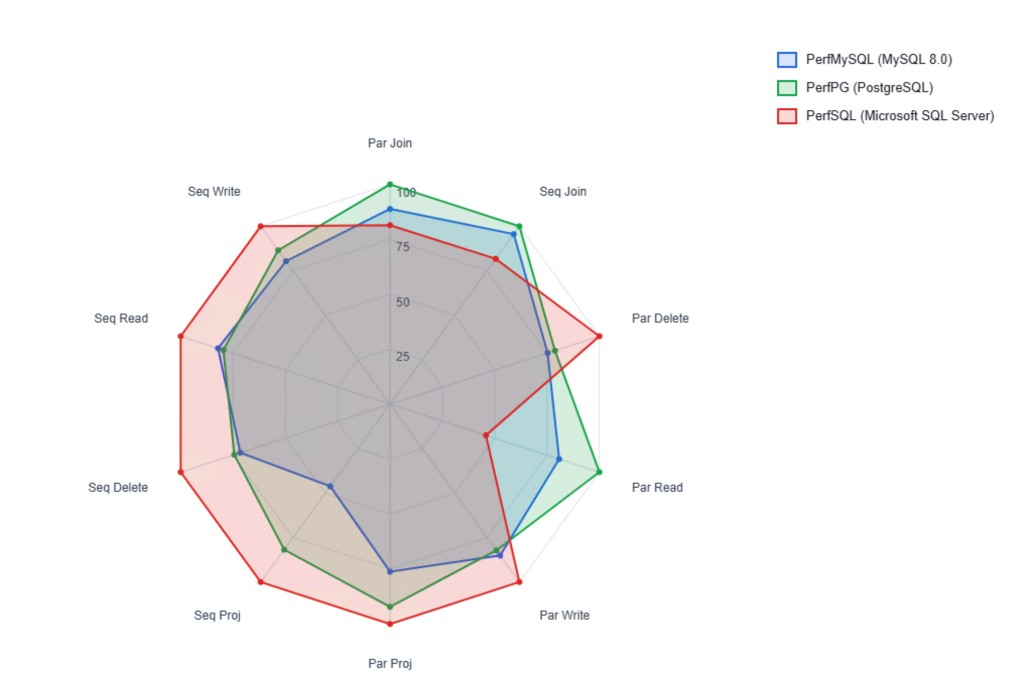
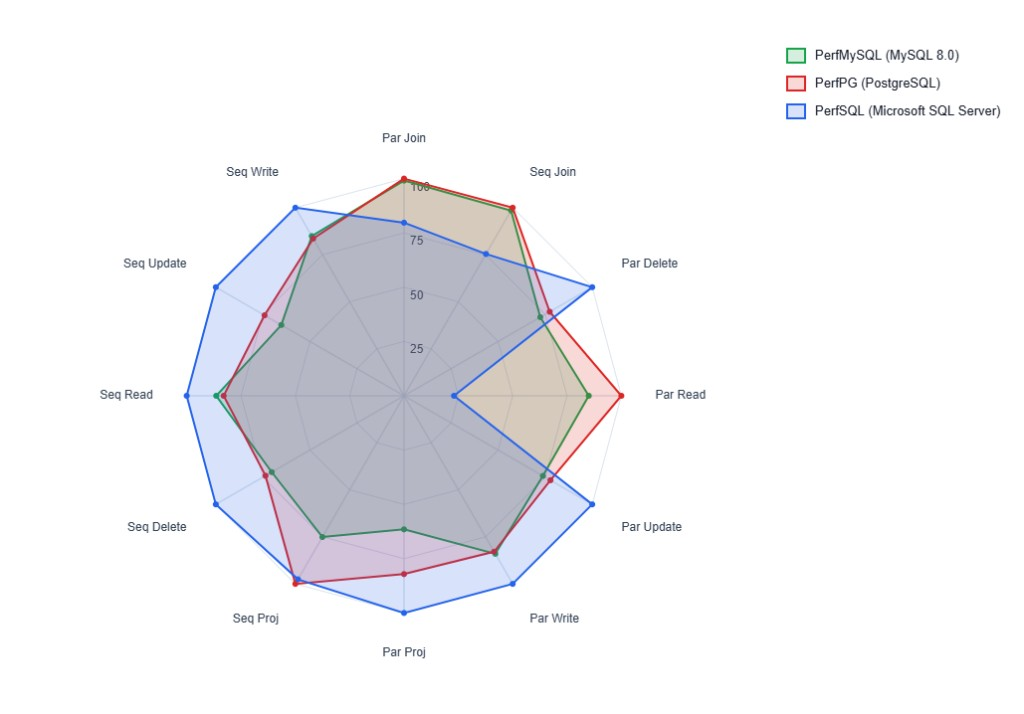
Update benchmark results with fresh test data and fix script bugs
- Replace screenshots with results from latest 12-benchmark run (including Update)

- Add benchmark matrix table with all results and per-benchmark winner

- Add spider chart interpretation guide with correct reading instructions

- Add Benchmark Types Explained table describing all 12 benchmarks

- Explain newly added Update benchmark code in FBQL Queries section

- Fix Wait-ForBenchmarkDataClear to accept Idle as valid cleared state

- Fix Get-RecordFieldValue strict-mode error on PSObject.Properties access

- Update spider chart note for clearer per-axis interpretation

Made-with: Cursor

diff --git a/README.md b/README.md
@@ -6,29 +6,49 @@ Created by AcuPower LTD for performance analysis. Company website: [acupowererp.
 
 ## Benchmark Results
 
+Test parameters: **15,000 records**, **5 iterations**, **batch size 250**, **12 parallel threads**.
+
 ### All Operations Overview
 
 ![All Operations](docs/images/benchmark-all-operations.png)
 
-The Y-axis shows elapsed time in milliseconds (ms) -- **lower is better**, meaning the database completed the workload faster. The scale values represent thousands of milliseconds: 25k = 25,000 ms (25 seconds), 50k = 50,000 ms (50 seconds), 75k = 75,000 ms (1 min 15 sec), 100k = 100,000 ms (1 min 40 sec). The chart covers all 10 benchmark categories for all three databases. The two prominent peaks correspond to Delete operations, which are consistently the most expensive across every engine. SQL Server (blue) tends to sit below MySQL and PostgreSQL on Delete-heavy workloads, while Read and Projection operations cluster tightly for all three engines.
+This line chart plots elapsed time in milliseconds for all 12 benchmark categories across the three database engines. The Y-axis shows time in milliseconds -- **lower is better**. The scale values represent thousands of milliseconds: 125k = 125,000 ms (2 min 5 sec), 250k = 250,000 ms (4 min 10 sec), 375k = 375,000 ms (6 min 15 sec), 500k = 500,000 ms (8 min 20 sec).
 
-### Read / Write / Delete
-
-![Read Write Delete](docs/images/benchmark-read-write-delete.png)
-
-A focused view of the six CRUD benchmarks (sequential and parallel Read, Write, Delete). Lower values mean faster execution. Read operations are nearly identical across engines. Write operations show moderate separation, with SQL Server completing slightly faster. Delete operations reveal the largest gap: MySQL and PostgreSQL reach ~85,000 ms (~1 min 25 sec) while SQL Server stays around ~58,000 ms (~58 seconds) for the same record count and iteration settings.
-
-### Analytical Workloads (Complex BQL Join and PXProjection)
-
-![Analytical Workloads](docs/images/benchmark-analytical-workloads.png)
-
-Zoomed into the analytical benchmark categories: Sequential Join, Sequential Projection, Parallel Join, and Parallel Projection. Lower values mean faster execution. The Y-axis scale here tops out at 20k (20,000 ms = 20 seconds), reflecting that analytical queries are substantially lighter than Delete workloads. SQL Server (blue) shows higher elapsed time on the Join benchmarks (~19,000 ms / ~19 sec), while PostgreSQL (red) is consistently the fastest on Projection queries. Sequential Projection times are very close across all three engines (~1,000-2,000 ms / 1-2 seconds), suggesting the database optimizer produces similar plans for the flattened projection view.
+The two prominent peaks correspond to **Delete** operations (both sequential and parallel), which are consistently the most expensive across every engine. SQL Server (blue) sits below MySQL and PostgreSQL on Delete-heavy workloads. Read and Projection operations cluster tightly near the baseline for all three engines, indicating minimal difference on lightweight queries.
 
 ### Spider Chart (Normalized Comparison)
 
 ![Spider Chart](docs/images/benchmark-spider-chart.png)
 
-A radar chart normalizing every benchmark category to a 0-100 scale so the overall performance "shape" of each database is visible at a glance. Here, **smaller is better** -- a larger footprint means more time consumed (worse performance). SQL Server (red) extends outward on Write and Delete axes, while PostgreSQL (green) and MySQL (blue) trade advantages depending on the operation type.
+A radar chart normalizing every benchmark category to a 0-100 **speed score**. Each axis shows a normalized speed score for one benchmark. **100 = fastest database for that benchmark**. Compare databases per axis: the further from the center, the faster.
+
+**How to read it:**
+- **Blue** = Microsoft SQL Server, **Red** = PostgreSQL, **Green** = MySQL 8.0
+- SQL Server (blue) reaches the outer edge on most CRUD axes (Read, Write, Update, Delete), confirming it is the fastest for transactional operations
+- SQL Server collapses toward the center on **Parallel Read** (score ~23), where PostgreSQL and MySQL are dramatically faster (~1.2s vs 5.35s)
+- PostgreSQL (red) and MySQL (green) reach 100 on **Complex BQL Join** axes, meaning they outperform SQL Server on multi-table analytical joins
+- On **PXProjection** axes, all three engines cluster near the outer edge, meaning projection performance is similar across all databases
+
+### Benchmark Matrix
+
+Full results from the latest benchmark run (15,000 records, 5 iterations, 12 threads):
+
+| Benchmark | MySQL 8.0 | PostgreSQL | SQL Server | Winner |
+|---|---|---|---|---|
+| Sequential Read | 11.29s | 11.75s | **9.76s** | SQL Server |
+| Sequential Write | 56.65s | 57.50s | **48.09s** | SQL Server |
+| Sequential Update | 1:28 (88s) | 1:17 (77s) | **57.77s** | SQL Server |
+| Sequential Delete | 5:47 (347s) | 5:31 (331s) | **4:04 (244s)** | SQL Server |
+| Complex BQL Join (Sequential) | 26.87s | **26.46s** | 35.08s | PostgreSQL |
+| PXProjection Analysis (Sequential) | 3.03s | **2.28s** | 2.33s | PostgreSQL |
+| Parallel Read | 1.45s | **1.23s** | 5.35s | PostgreSQL |
+| Parallel Write | 49.97s | 50.66s | **41.99s** | SQL Server |
+| Parallel Update | 49.75s | 47.20s | **36.71s** | SQL Server |
+| Parallel Delete | 5:15 (315s) | 4:55 (295s) | **3:48 (228s)** | SQL Server |
+| Complex BQL Join (Parallel) | 21.45s | **21.24s** | 26.65s | PostgreSQL |
+| PXProjection Analysis (Parallel) | 2.57s | 1.93s | **1.58s** | SQL Server |
+
+**Summary:** SQL Server wins 8 of 12 benchmarks (all CRUD operations plus Parallel PXProjection). PostgreSQL wins 4 (both Complex BQL Joins, Sequential PXProjection, and Parallel Read). MySQL 8.0 tracks PostgreSQL closely on every benchmark but does not take first place in any category.
 
 ## What It Includes
 
@@ -60,11 +80,10 @@ All benchmarks use Acumatica Fluent BQL (FBQL) through `SelectFrom<>` syntax. Th
 | `INSite` | Left-joined via `SiteID` to retrieve warehouse code. |
 | `Branch` (GL) | Left-joined via `BranchID` to retrieve the branch associated with each warehouse. |
 
-### Read / Write / Delete Queries
+### Read Queries
 
-These benchmarks operate on the `PerfTestRecord` table using parameterized FBQL:
+Selects records by `BatchID` and `Sequence` range, ordered ascending:
 
-**Read** -- selects records by `BatchID` and `Sequence` range, ordered ascending:
 ```csharp
 SelectFrom<PerfTestRecord>
     .Where<PerfTestRecord.batchID.IsEqual<@P.AsString>
@@ -75,21 +94,35 @@ SelectFrom<PerfTestRecord>
     .Select(this, batchId, startIndex, endIndex)
 ```
 
-**Write** -- inserts records into `PerfTestRecord` through the Acumatica cache in batches of 200, flushing with `Save.Press()` between batches.
+### Write Queries
 
-**Update** -- seeds data (like Read), then selects rows by batch and sequence range, modifies `PayloadText` and `PayloadValue`, and writes them back through `cache.Update(row)` in batches of 200:
+Inserts records into `PerfTestRecord` through the Acumatica cache in batches of 200, flushing with `Save.Press()` between batches.
+
+### Update Queries
+
+The Update benchmark was added to answer the question: *"Does the Write benchmark include UPDATE and DELETE statements?"* Write only measures INSERT throughput. Update is a separate benchmark that seeds data first, then selects rows by batch and sequence range, modifies `PayloadText` and `PayloadValue` on each row, and writes changes back through `Records.Cache.Update(row)` in batches of 200:
+
 ```csharp
-SelectFrom<PerfTestRecord>
+foreach (PerfTestRecord row in SelectFrom<PerfTestRecord>
     .Where<PerfTestRecord.batchID.IsEqual<@P.AsString>
         .And<PerfTestRecord.sequence.IsGreaterEqual<@P.AsInt>>
         .And<PerfTestRecord.sequence.IsLessEqual<@P.AsInt>>>
     .OrderBy<PerfTestRecord.sequence.Asc>
     .View
-    .Select(this, batchId, startIndex, endIndex)
-// each row is modified and passed to Records.Cache.Update(row)
+    .Select(this, batchId, startIndex, endIndex))
+{
+    row.PayloadText = $"Updated iteration {iteration} seq {row.Sequence}";
+    row.PayloadValue = (row.PayloadValue ?? 0) + iteration;
+    Records.Cache.Update(row);
+}
 ```
 
-**Delete** -- first seeds rows for each iteration, then selects and deletes them through the cache:
+Each row's `PayloadText` is overwritten with an iteration-stamped string and `PayloadValue` is incremented. Rows are flushed to the database in batches of 200 via `Save.Press()`, and the cache is cleared between flushes to prevent memory accumulation. A running checksum of `PayloadValue` is computed to verify data integrity. The parallel variant splits the update work across Acumatica processing workers using `PXProcessing.ProcessItemsParallel`.
+
+### Delete Queries
+
+First seeds rows for each iteration, then selects and deletes them through the cache:
+
 ```csharp
 SelectFrom<PerfTestRecord>
     .Where<PerfTestRecord.batchID.IsEqual<@P.AsString>
@@ -158,6 +191,23 @@ SelectFrom<PerfBenchmarkProjection>
 4. **Checksums** -- Read, Update, Join, and Projection benchmarks compute an analytical checksum from field values (e.g., `QtyOnHand + QtyAvail + InventoryCD.Length`) to force the database to actually read and transmit row data, preventing the optimizer from short-circuiting the query.
 5. **Snapshot & Comparison** -- after each benchmark completes, the latest results are written as a JSON snapshot to `App_Data\PerfDBBenchmark\<InstanceName>.json`. When multiple instance snapshots exist, the Comparison Results tab and Visualization tab merge them for side-by-side analysis.
 
+## Benchmark Types Explained
+
+| Benchmark | Category | What It Measures |
+|---|---|---|
+| Sequential Read | Read | Single-threaded BQL select of seeded records by batch/sequence range |
+| Parallel Read | Read | Same reads split across Acumatica processing workers |
+| Sequential Write | Write | Single-threaded INSERT of new records through the Acumatica cache in batches of 200 |
+| Parallel Write | Write | Same inserts split across processing workers |
+| Sequential Update | Update | Single-threaded SELECT + UPDATE of existing records, modifying `PayloadText` and `PayloadValue` |
+| Parallel Update | Update | Same updates split across processing workers |
+| Sequential Delete | Delete | Single-threaded SELECT + DELETE of seeded records through the cache |
+| Parallel Delete | Delete | Same deletes split across processing workers |
+| Complex BQL Join (Sequential) | Complex BQL Join | Five-table analytical join over stock Acumatica Inventory tables, single-threaded |
+| Complex BQL Join (Parallel) | Complex BQL Join | Same join executed in parallel windows |
+| PXProjection Analysis (Sequential) | PXProjection | Read-only projected view flattening the same five-table join, single-threaded |
+| PXProjection Analysis (Parallel) | PXProjection | Same projection query executed in parallel windows |
+
 ## Hardcoded Instance Names
 
 The scripts default to three local Acumatica instances, each backed by a different database engine:
@@ -183,6 +233,7 @@ The scripts also accept a `PerfrMySQL` / `PerfrSQL` alternate spelling as a cand
 - `customization/PerfDBBenchmark`: Acumatica customization source folder containing the ASPX page and generated `project.xml`.
 - `scripts/`: PowerShell automation scripts (see below).
 - `docs/images/`: benchmark result screenshots.
+- `artifacts/benchmark-reports/`: generated HTML and JSON benchmark reports.
 
 ## PowerShell Scripts
 
